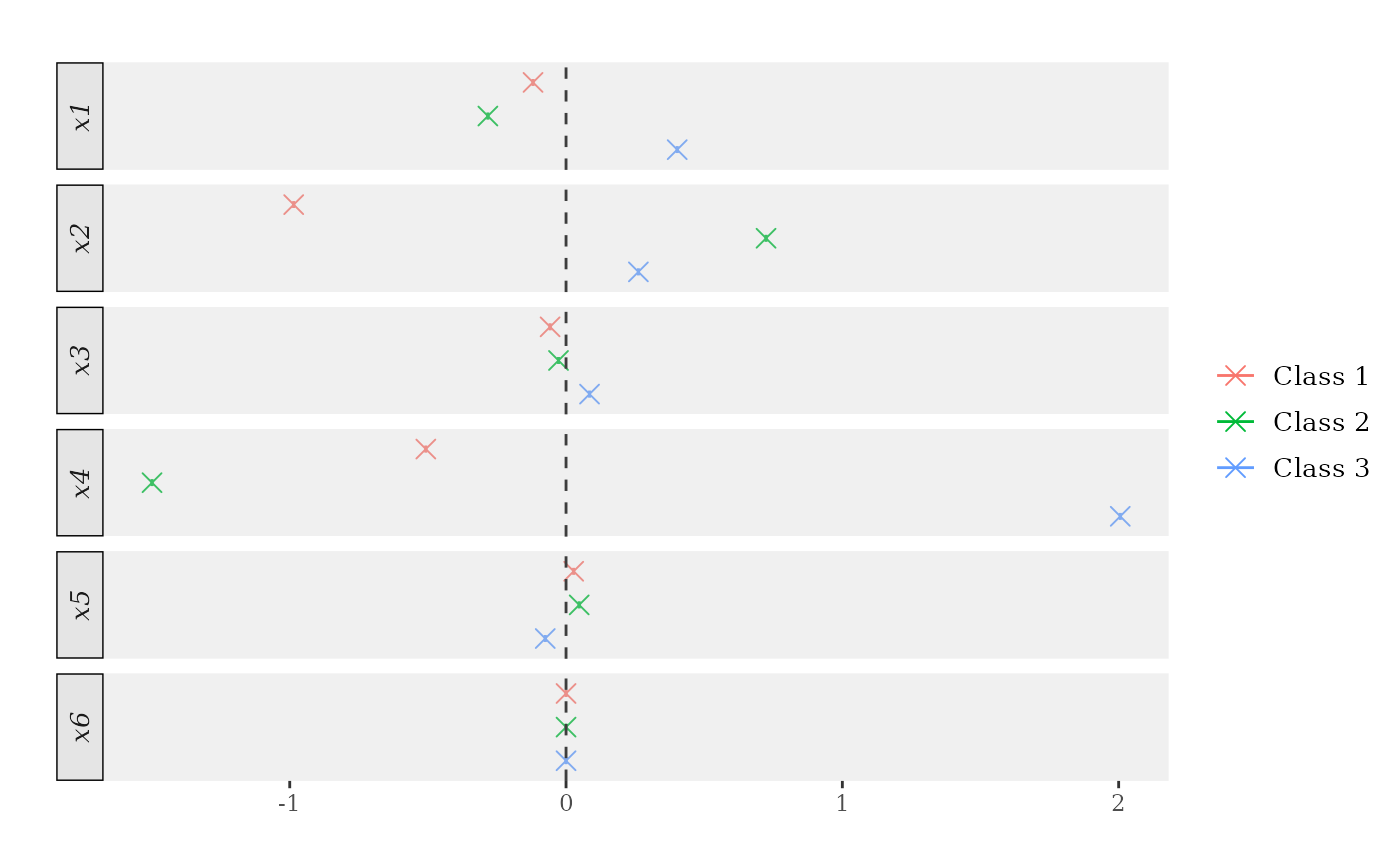
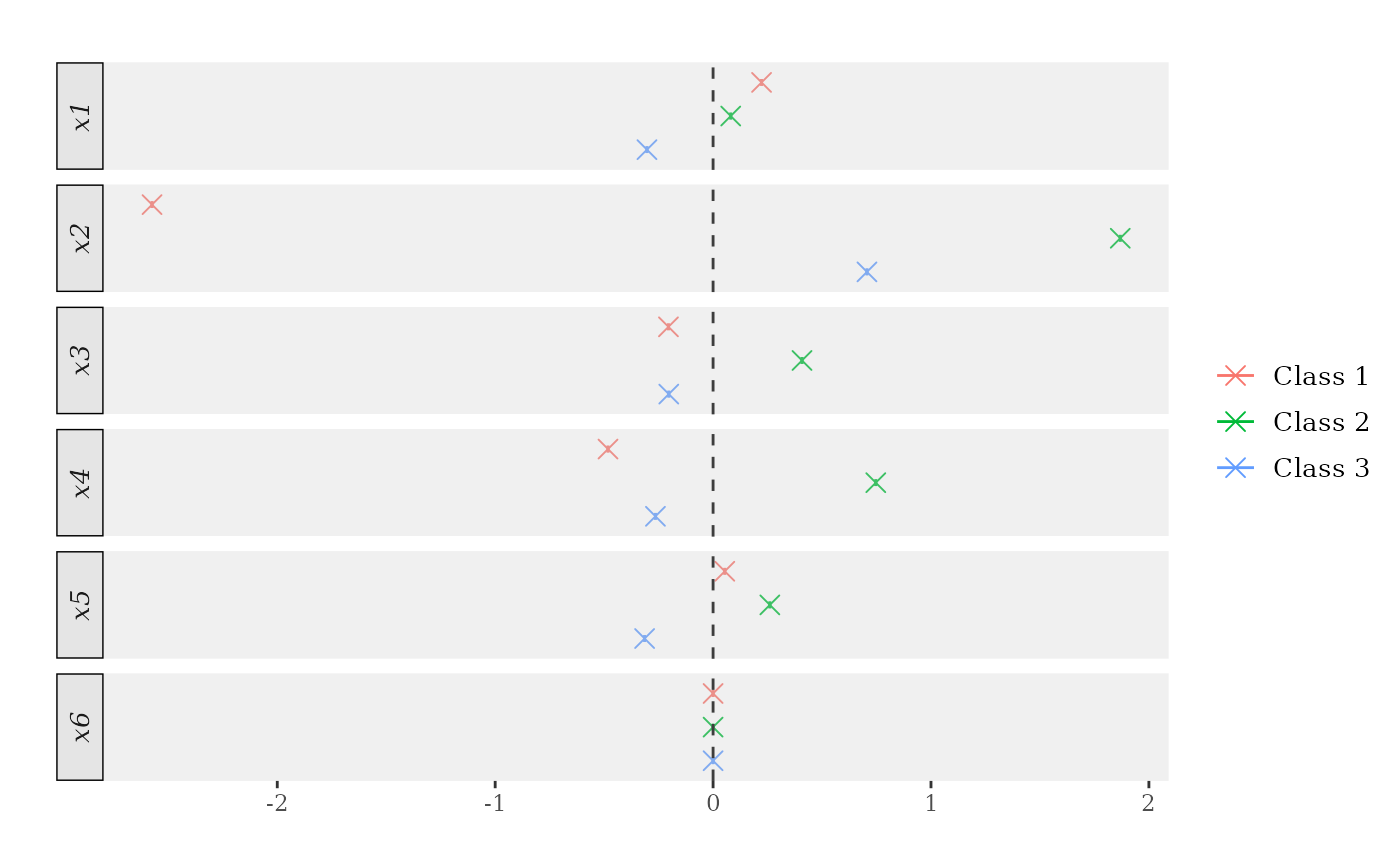
Deploying to gh-pages from @ riccardo-df/ocf@5de2d60cd0b7a9df96c2b80afe0f2779811ad42f 🚀

diff --git a/articles/ocf-short-tutorial.html b/articles/ocf-short-tutorial.html
@@ -159,7 +159,7 @@ about the employed DGP can be retrieved by running
 <div class="sourceCode" id="cb1"><pre class="sourceCode r"><code class="sourceCode r"><span id="cb1-1"><a href="#cb1-1" tabindex="-1"></a><span class="do">## Generate synthetic data.</span></span>
 <span id="cb1-2"><a href="#cb1-2" tabindex="-1"></a><span class="fu">set.seed</span>(<span class="dv">1986</span>)</span>
 <span id="cb1-3"><a href="#cb1-3" tabindex="-1"></a></span>
-<span id="cb1-4"><a href="#cb1-4" tabindex="-1"></a>n <span class="ot">&lt;-</span> <span class="dv">100</span></span>
+<span id="cb1-4"><a href="#cb1-4" tabindex="-1"></a>n <span class="ot">&lt;-</span> <span class="dv">2000</span></span>
 <span id="cb1-5"><a href="#cb1-5" tabindex="-1"></a>data <span class="ot">&lt;-</span> <span class="fu">generate_ordered_data</span>(n)</span>
 <span id="cb1-6"><a href="#cb1-6" tabindex="-1"></a></span>
 <span id="cb1-7"><a href="#cb1-7" tabindex="-1"></a>sample <span class="ot">&lt;-</span> data<span class="sc">$</span>sample</span>
@@ -168,17 +168,17 @@ about the employed DGP can be retrieved by running
 <span id="cb1-10"><a href="#cb1-10" tabindex="-1"></a></span>
 <span id="cb1-11"><a href="#cb1-11" tabindex="-1"></a><span class="fu">table</span>(Y)</span>
 <span id="cb1-12"><a href="#cb1-12" tabindex="-1"></a><span class="sc">&gt;</span> Y</span>
-<span id="cb1-13"><a href="#cb1-13" tabindex="-1"></a><span class="sc">&gt;</span>  <span class="dv">1</span>  <span class="dv">2</span>  <span class="dv">3</span> </span>
-<span id="cb1-14"><a href="#cb1-14" tabindex="-1"></a><span class="sc">&gt;</span> <span class="dv">31</span> <span class="dv">37</span> <span class="dv">32</span></span>
+<span id="cb1-13"><a href="#cb1-13" tabindex="-1"></a><span class="sc">&gt;</span>   <span class="dv">1</span>   <span class="dv">2</span>   <span class="dv">3</span> </span>
+<span id="cb1-14"><a href="#cb1-14" tabindex="-1"></a><span class="sc">&gt;</span> <span class="dv">679</span> <span class="dv">655</span> <span class="dv">666</span></span>
 <span id="cb1-15"><a href="#cb1-15" tabindex="-1"></a></span>
 <span id="cb1-16"><a href="#cb1-16" tabindex="-1"></a><span class="fu">head</span>(X)</span>
-<span id="cb1-17"><a href="#cb1-17" tabindex="-1"></a><span class="sc">&gt;</span>            x1 x2         x3 x4            x5 x6</span>
-<span id="cb1-18"><a href="#cb1-18" tabindex="-1"></a><span class="sc">&gt;</span> <span class="dv">1</span> <span class="sc">-</span><span class="fl">0.04625141</span>  <span class="dv">1</span> <span class="sc">-</span><span class="fl">1.7879732</span>  <span class="dv">0</span> <span class="sc">-</span><span class="fl">1.0515868012</span>  <span class="dv">1</span></span>
-<span id="cb1-19"><a href="#cb1-19" tabindex="-1"></a><span class="sc">&gt;</span> <span class="dv">2</span>  <span class="fl">0.28000082</span>  <span class="dv">0</span> <span class="sc">-</span><span class="fl">1.1553030</span>  <span class="dv">0</span> <span class="sc">-</span><span class="fl">0.4285613418</span>  <span class="dv">0</span></span>
-<span id="cb1-20"><a href="#cb1-20" tabindex="-1"></a><span class="sc">&gt;</span> <span class="dv">3</span>  <span class="fl">0.25317063</span>  <span class="dv">1</span>  <span class="fl">1.6677330</span>  <span class="dv">0</span>  <span class="fl">0.1621459072</span>  <span class="dv">0</span></span>
-<span id="cb1-21"><a href="#cb1-21" tabindex="-1"></a><span class="sc">&gt;</span> <span class="dv">4</span> <span class="sc">-</span><span class="fl">0.96411077</span>  <span class="dv">0</span> <span class="sc">-</span><span class="fl">0.1587051</span>  <span class="dv">0</span>  <span class="fl">0.3587438820</span>  <span class="dv">0</span></span>
-<span id="cb1-22"><a href="#cb1-22" tabindex="-1"></a><span class="sc">&gt;</span> <span class="dv">5</span>  <span class="fl">0.49222664</span>  <span class="dv">0</span> <span class="sc">-</span><span class="fl">1.4020533</span>  <span class="dv">1</span>  <span class="fl">0.0004035277</span>  <span class="dv">0</span></span>
-<span id="cb1-23"><a href="#cb1-23" tabindex="-1"></a><span class="sc">&gt;</span> <span class="dv">6</span> <span class="sc">-</span><span class="fl">0.69874551</span>  <span class="dv">1</span> <span class="sc">-</span><span class="fl">0.4450061</span>  <span class="dv">0</span> <span class="sc">-</span><span class="fl">0.3183447897</span>  <span class="dv">0</span></span></code></pre></div>
+<span id="cb1-17"><a href="#cb1-17" tabindex="-1"></a><span class="sc">&gt;</span>            x1 x2          x3 x4         x5 x6</span>
+<span id="cb1-18"><a href="#cb1-18" tabindex="-1"></a><span class="sc">&gt;</span> <span class="dv">1</span> <span class="sc">-</span><span class="fl">0.04625141</span>  <span class="dv">0</span>  <span class="fl">0.95196649</span>  <span class="dv">1</span>  <span class="fl">0.6678908</span>  <span class="dv">0</span></span>
+<span id="cb1-19"><a href="#cb1-19" tabindex="-1"></a><span class="sc">&gt;</span> <span class="dv">2</span>  <span class="fl">0.28000082</span>  <span class="dv">1</span>  <span class="fl">2.04083053</span>  <span class="dv">0</span>  <span class="fl">0.2508728</span>  <span class="dv">0</span></span>
+<span id="cb1-20"><a href="#cb1-20" tabindex="-1"></a><span class="sc">&gt;</span> <span class="dv">3</span>  <span class="fl">0.25317063</span>  <span class="dv">0</span>  <span class="fl">2.06547193</span>  <span class="dv">1</span> <span class="sc">-</span><span class="fl">0.8435355</span>  <span class="dv">1</span></span>
+<span id="cb1-21"><a href="#cb1-21" tabindex="-1"></a><span class="sc">&gt;</span> <span class="dv">4</span> <span class="sc">-</span><span class="fl">0.96411077</span>  <span class="dv">0</span> <span class="sc">-</span><span class="fl">0.02678352</span>  <span class="dv">0</span>  <span class="fl">0.2401109</span>  <span class="dv">1</span></span>
+<span id="cb1-22"><a href="#cb1-22" tabindex="-1"></a><span class="sc">&gt;</span> <span class="dv">5</span>  <span class="fl">0.49222664</span>  <span class="dv">0</span> <span class="sc">-</span><span class="fl">1.31251674</span>  <span class="dv">0</span>  <span class="fl">0.5411830</span>  <span class="dv">1</span></span>
+<span id="cb1-23"><a href="#cb1-23" tabindex="-1"></a><span class="sc">&gt;</span> <span class="dv">6</span> <span class="sc">-</span><span class="fl">0.69874551</span>  <span class="dv">0</span> <span class="sc">-</span><span class="fl">0.06783879</span>  <span class="dv">0</span> <span class="sc">-</span><span class="fl">0.8246243</span>  <span class="dv">1</span></span></code></pre></div>
 <div class="section level3">
 <h3 id="conditional-probabilities">Conditional probabilities<a class="anchor" aria-label="anchor" href="#conditional-probabilities"></a>
 </h3>
@@ -207,13 +207,13 @@ the highest-probability class).</p>
 <span id="cb2-16"><a href="#cb2-16" tabindex="-1"></a><span class="er">&gt;</span> <span class="fu">ocf</span>(Y_tr, X_tr) </span>
 <span id="cb2-17"><a href="#cb2-17" tabindex="-1"></a><span class="sc">&gt;</span> </span>
 <span id="cb2-18"><a href="#cb2-18" tabindex="-1"></a><span class="er">&gt;</span> Data info<span class="sc">:</span> </span>
-<span id="cb2-19"><a href="#cb2-19" tabindex="-1"></a><span class="er">&gt;</span> Full sample size<span class="sc">:</span>   <span class="dv">50</span> </span>
+<span id="cb2-19"><a href="#cb2-19" tabindex="-1"></a><span class="er">&gt;</span> Full sample size<span class="sc">:</span>   <span class="dv">1000</span> </span>
 <span id="cb2-20"><a href="#cb2-20" tabindex="-1"></a><span class="sc">&gt;</span> N. covariates<span class="sc">:</span>      <span class="dv">6</span> </span>
 <span id="cb2-21"><a href="#cb2-21" tabindex="-1"></a><span class="sc">&gt;</span> Classes<span class="sc">:</span>            <span class="dv">1</span> <span class="dv">2</span> <span class="dv">3</span> </span>
 <span id="cb2-22"><a href="#cb2-22" tabindex="-1"></a><span class="sc">&gt;</span> </span>
 <span id="cb2-23"><a href="#cb2-23" tabindex="-1"></a><span class="er">&gt;</span> Relative variable importance<span class="sc">:</span> </span>
 <span id="cb2-24"><a href="#cb2-24" tabindex="-1"></a><span class="er">&gt;</span>    x1    x2    x3    x4    x5    x6 </span>
-<span id="cb2-25"><a href="#cb2-25" tabindex="-1"></a><span class="sc">&gt;</span> <span class="fl">0.369</span> <span class="fl">0.075</span> <span class="fl">0.253</span> <span class="fl">0.101</span> <span class="fl">0.172</span> <span class="fl">0.030</span> </span>
+<span id="cb2-25"><a href="#cb2-25" tabindex="-1"></a><span class="sc">&gt;</span> <span class="fl">0.324</span> <span class="fl">0.109</span> <span class="fl">0.281</span> <span class="fl">0.056</span> <span class="fl">0.194</span> <span class="fl">0.036</span> </span>
 <span id="cb2-26"><a href="#cb2-26" tabindex="-1"></a><span class="sc">&gt;</span> </span>
 <span id="cb2-27"><a href="#cb2-27" tabindex="-1"></a><span class="er">&gt;</span> Tuning parameters<span class="sc">:</span> </span>
 <span id="cb2-28"><a href="#cb2-28" tabindex="-1"></a><span class="er">&gt;</span> N. trees<span class="sc">:</span>           <span class="dv">2000</span> </span>
@@ -228,19 +228,19 @@ the highest-probability class).</p>
 <span id="cb2-37"><a href="#cb2-37" tabindex="-1"></a></span>
 <span id="cb2-38"><a href="#cb2-38" tabindex="-1"></a><span class="fu">head</span>(predictions<span class="sc">$</span>probabilities)</span>
 <span id="cb2-39"><a href="#cb2-39" tabindex="-1"></a><span class="sc">&gt;</span>         <span class="fu">P</span>(<span class="at">Y=</span><span class="dv">1</span>)    <span class="fu">P</span>(<span class="at">Y=</span><span class="dv">2</span>)     <span class="fu">P</span>(<span class="at">Y=</span><span class="dv">3</span>)</span>
-<span id="cb2-40"><a href="#cb2-40" tabindex="-1"></a><span class="sc">&gt;</span> [<span class="dv">1</span>,] <span class="fl">0.3543743</span> <span class="fl">0.5375517</span> <span class="fl">0.10807401</span></span>
-<span id="cb2-41"><a href="#cb2-41" tabindex="-1"></a><span class="sc">&gt;</span> [<span class="dv">2</span>,] <span class="fl">0.4571570</span> <span class="fl">0.4057421</span> <span class="fl">0.13710091</span></span>
-<span id="cb2-42"><a href="#cb2-42" tabindex="-1"></a><span class="sc">&gt;</span> [<span class="dv">3</span>,] <span class="fl">0.1173914</span> <span class="fl">0.4803692</span> <span class="fl">0.40223943</span></span>
-<span id="cb2-43"><a href="#cb2-43" tabindex="-1"></a><span class="sc">&gt;</span> [<span class="dv">4</span>,] <span class="fl">0.6342519</span> <span class="fl">0.3132168</span> <span class="fl">0.05253126</span></span>
-<span id="cb2-44"><a href="#cb2-44" tabindex="-1"></a><span class="sc">&gt;</span> [<span class="dv">5</span>,] <span class="fl">0.3482501</span> <span class="fl">0.3873043</span> <span class="fl">0.26444560</span></span>
-<span id="cb2-45"><a href="#cb2-45" tabindex="-1"></a><span class="sc">&gt;</span> [<span class="dv">6</span>,] <span class="fl">0.6284292</span> <span class="fl">0.2999011</span> <span class="fl">0.07166965</span></span>
+<span id="cb2-40"><a href="#cb2-40" tabindex="-1"></a><span class="sc">&gt;</span> [<span class="dv">1</span>,] <span class="fl">0.1580823</span> <span class="fl">0.4010153</span> <span class="fl">0.44090239</span></span>
+<span id="cb2-41"><a href="#cb2-41" tabindex="-1"></a><span class="sc">&gt;</span> [<span class="dv">2</span>,] <span class="fl">0.5871019</span> <span class="fl">0.2276974</span> <span class="fl">0.18520066</span></span>
+<span id="cb2-42"><a href="#cb2-42" tabindex="-1"></a><span class="sc">&gt;</span> [<span class="dv">3</span>,] <span class="fl">0.5416146</span> <span class="fl">0.3308320</span> <span class="fl">0.12755331</span></span>
+<span id="cb2-43"><a href="#cb2-43" tabindex="-1"></a><span class="sc">&gt;</span> [<span class="dv">4</span>,] <span class="fl">0.3369383</span> <span class="fl">0.5792799</span> <span class="fl">0.08378179</span></span>
+<span id="cb2-44"><a href="#cb2-44" tabindex="-1"></a><span class="sc">&gt;</span> [<span class="dv">5</span>,] <span class="fl">0.1066391</span> <span class="fl">0.3533131</span> <span class="fl">0.54004772</span></span>
+<span id="cb2-45"><a href="#cb2-45" tabindex="-1"></a><span class="sc">&gt;</span> [<span class="dv">6</span>,] <span class="fl">0.4305637</span> <span class="fl">0.5112663</span> <span class="fl">0.05817006</span></span>
 <span id="cb2-46"><a href="#cb2-46" tabindex="-1"></a></span>
 <span id="cb2-47"><a href="#cb2-47" tabindex="-1"></a><span class="fu">table</span>(Y_test, predictions<span class="sc">$</span>classification)</span>
 <span id="cb2-48"><a href="#cb2-48" tabindex="-1"></a><span class="sc">&gt;</span>       </span>
-<span id="cb2-49"><a href="#cb2-49" tabindex="-1"></a><span class="er">&gt;</span> Y_test  <span class="dv">1</span>  <span class="dv">2</span>  <span class="dv">3</span></span>
-<span id="cb2-50"><a href="#cb2-50" tabindex="-1"></a><span class="sc">&gt;</span>      <span class="dv">1</span> <span class="dv">12</span>  <span class="dv">3</span>  <span class="dv">1</span></span>
-<span id="cb2-51"><a href="#cb2-51" tabindex="-1"></a><span class="sc">&gt;</span>      <span class="dv">2</span>  <span class="dv">6</span>  <span class="dv">6</span>  <span class="dv">7</span></span>
-<span id="cb2-52"><a href="#cb2-52" tabindex="-1"></a><span class="sc">&gt;</span>      <span class="dv">3</span>  <span class="dv">3</span>  <span class="dv">2</span> <span class="dv">10</span></span></code></pre></div>
+<span id="cb2-49"><a href="#cb2-49" tabindex="-1"></a><span class="er">&gt;</span> Y_test   <span class="dv">1</span>   <span class="dv">2</span>   <span class="dv">3</span></span>
+<span id="cb2-50"><a href="#cb2-50" tabindex="-1"></a><span class="sc">&gt;</span>      <span class="dv">1</span> <span class="dv">195</span> <span class="dv">118</span>  <span class="dv">57</span></span>
+<span id="cb2-51"><a href="#cb2-51" tabindex="-1"></a><span class="sc">&gt;</span>      <span class="dv">2</span>  <span class="dv">98</span> <span class="dv">118</span> <span class="dv">102</span></span>
+<span id="cb2-52"><a href="#cb2-52" tabindex="-1"></a><span class="sc">&gt;</span>      <span class="dv">3</span>  <span class="dv">39</span>  <span class="dv">80</span> <span class="dv">193</span></span></code></pre></div>
 <p>To produce consistent and asymptotically normal predictions, we need
 to set the <code>honesty</code> argument to TRUE. This makes the
 <code>ocf</code> function using different parts of the training sample
@@ -251,12 +251,12 @@ to construct the forests and compute the predictions.</p>
 <span id="cb3-4"><a href="#cb3-4" tabindex="-1"></a>honest_predictions <span class="ot">&lt;-</span> <span class="fu">predict</span>(honest_forests, X_test)</span>
 <span id="cb3-5"><a href="#cb3-5" tabindex="-1"></a><span class="fu">head</span>(honest_predictions<span class="sc">$</span>probabilities)</span>
 <span id="cb3-6"><a href="#cb3-6" tabindex="-1"></a><span class="sc">&gt;</span>         <span class="fu">P</span>(<span class="at">Y=</span><span class="dv">1</span>)    <span class="fu">P</span>(<span class="at">Y=</span><span class="dv">2</span>)    <span class="fu">P</span>(<span class="at">Y=</span><span class="dv">3</span>)</span>
-<span id="cb3-7"><a href="#cb3-7" tabindex="-1"></a><span class="sc">&gt;</span> [<span class="dv">1</span>,] <span class="fl">0.3476025</span> <span class="fl">0.3216374</span> <span class="fl">0.3307601</span></span>
-<span id="cb3-8"><a href="#cb3-8" tabindex="-1"></a><span class="sc">&gt;</span> [<span class="dv">2</span>,] <span class="fl">0.3865934</span> <span class="fl">0.3244973</span> <span class="fl">0.2889093</span></span>
-<span id="cb3-9"><a href="#cb3-9" tabindex="-1"></a><span class="sc">&gt;</span> [<span class="dv">3</span>,] <span class="fl">0.2351550</span> <span class="fl">0.4112832</span> <span class="fl">0.3535617</span></span>
-<span id="cb3-10"><a href="#cb3-10" tabindex="-1"></a><span class="sc">&gt;</span> [<span class="dv">4</span>,] <span class="fl">0.4237396</span> <span class="fl">0.3527212</span> <span class="fl">0.2235392</span></span>
-<span id="cb3-11"><a href="#cb3-11" tabindex="-1"></a><span class="sc">&gt;</span> [<span class="dv">5</span>,] <span class="fl">0.3394056</span> <span class="fl">0.3034435</span> <span class="fl">0.3571509</span></span>
-<span id="cb3-12"><a href="#cb3-12" tabindex="-1"></a><span class="sc">&gt;</span> [<span class="dv">6</span>,] <span class="fl">0.4069484</span> <span class="fl">0.3231956</span> <span class="fl">0.2698560</span></span></code></pre></div>
+<span id="cb3-7"><a href="#cb3-7" tabindex="-1"></a><span class="sc">&gt;</span> [<span class="dv">1</span>,] <span class="fl">0.1115188</span> <span class="fl">0.2933057</span> <span class="fl">0.5951755</span></span>
+<span id="cb3-8"><a href="#cb3-8" tabindex="-1"></a><span class="sc">&gt;</span> [<span class="dv">2</span>,] <span class="fl">0.5538789</span> <span class="fl">0.2478605</span> <span class="fl">0.1982606</span></span>
+<span id="cb3-9"><a href="#cb3-9" tabindex="-1"></a><span class="sc">&gt;</span> [<span class="dv">3</span>,] <span class="fl">0.3834688</span> <span class="fl">0.4418804</span> <span class="fl">0.1746508</span></span>
+<span id="cb3-10"><a href="#cb3-10" tabindex="-1"></a><span class="sc">&gt;</span> [<span class="dv">4</span>,] <span class="fl">0.5219917</span> <span class="fl">0.3478453</span> <span class="fl">0.1301631</span></span>
+<span id="cb3-11"><a href="#cb3-11" tabindex="-1"></a><span class="sc">&gt;</span> [<span class="dv">5</span>,] <span class="fl">0.1647595</span> <span class="fl">0.3233609</span> <span class="fl">0.5118797</span></span>
+<span id="cb3-12"><a href="#cb3-12" tabindex="-1"></a><span class="sc">&gt;</span> [<span class="dv">6</span>,] <span class="fl">0.3312435</span> <span class="fl">0.4883800</span> <span class="fl">0.1803764</span></span></code></pre></div>
 <p>To estimate standard errors for the predicted probabilities, we need
 to set the <code>inference</code> argument to TRUE. However, this works
 only if <code>honesty</code> is TRUE, as the formula for the variance is
@@ -284,7 +284,7 @@ median, according to the <code>eval</code> argument.</p>
 <span id="cb5-5"><a href="#cb5-5" tabindex="-1"></a><span class="sc">&gt;</span> </span>
 <span id="cb5-6"><a href="#cb5-6" tabindex="-1"></a><span class="er">&gt;</span> Data info<span class="sc">:</span> </span>
 <span id="cb5-7"><a href="#cb5-7" tabindex="-1"></a><span class="er">&gt;</span> Number of classes<span class="sc">:</span>    <span class="dv">3</span> </span>
-<span id="cb5-8"><a href="#cb5-8" tabindex="-1"></a><span class="sc">&gt;</span> Sample size<span class="sc">:</span>          <span class="dv">50</span> </span>
+<span id="cb5-8"><a href="#cb5-8" tabindex="-1"></a><span class="sc">&gt;</span> Sample size<span class="sc">:</span>          <span class="dv">1000</span> </span>
 <span id="cb5-9"><a href="#cb5-9" tabindex="-1"></a><span class="sc">&gt;</span> </span>
 <span id="cb5-10"><a href="#cb5-10" tabindex="-1"></a><span class="er">&gt;</span> Tuning parameters<span class="sc">:</span> </span>
 <span id="cb5-11"><a href="#cb5-11" tabindex="-1"></a><span class="er">&gt;</span> Evaluation<span class="sc">:</span>           atmean </span>
@@ -295,11 +295,11 @@ median, according to the <code>eval</code> argument.</p>
 <span id="cb5-16"><a href="#cb5-16" tabindex="-1"></a><span class="sc">&gt;</span> </span>
 <span id="cb5-17"><a href="#cb5-17" tabindex="-1"></a><span class="er">&gt;</span> Marginal Effects<span class="sc">:</span> </span>
 <span id="cb5-18"><a href="#cb5-18" tabindex="-1"></a><span class="er">&gt;</span>    P<span class="st">'(Y=1) P'</span>(<span class="at">Y=</span><span class="dv">2</span>) P<span class="st">'(Y=3)</span></span>
-<span id="cb5-19"><a href="#cb5-19" tabindex="-1"></a><span class="st">&gt; x1  -0.119  -0.283   0.402</span></span>
-<span id="cb5-20"><a href="#cb5-20" tabindex="-1"></a><span class="st">&gt; x2  -0.986   0.724   0.262</span></span>
-<span id="cb5-21"><a href="#cb5-21" tabindex="-1"></a><span class="st">&gt; x3  -0.058  -0.027   0.085</span></span>
-<span id="cb5-22"><a href="#cb5-22" tabindex="-1"></a><span class="st">&gt; x4  -0.507  -1.498   2.006</span></span>
-<span id="cb5-23"><a href="#cb5-23" tabindex="-1"></a><span class="st">&gt; x5   0.028   0.048  -0.075</span></span>
+<span id="cb5-19"><a href="#cb5-19" tabindex="-1"></a><span class="st">&gt; x1   0.222   0.081  -0.303</span></span>
+<span id="cb5-20"><a href="#cb5-20" tabindex="-1"></a><span class="st">&gt; x2  -2.575   1.869   0.706</span></span>
+<span id="cb5-21"><a href="#cb5-21" tabindex="-1"></a><span class="st">&gt; x3  -0.205   0.408  -0.203</span></span>
+<span id="cb5-22"><a href="#cb5-22" tabindex="-1"></a><span class="st">&gt; x4  -0.482   0.747  -0.264</span></span>
+<span id="cb5-23"><a href="#cb5-23" tabindex="-1"></a><span class="st">&gt; x5   0.054   0.261  -0.314</span></span>
 <span id="cb5-24"><a href="#cb5-24" tabindex="-1"></a><span class="st">&gt; x6   0.000   0.000   0.000</span></span>
 <span id="cb5-25"><a href="#cb5-25" tabindex="-1"></a></span>
 <span id="cb5-26"><a href="#cb5-26" tabindex="-1"></a><span class="st">plot(me_atmean)</span></span></code></pre></div>
@@ -332,7 +332,7 @@ forests and can considerably slow down the routine.</p>
 <span id="cb7-5"><a href="#cb7-5" tabindex="-1"></a><span class="sc">&gt;</span> </span>
 <span id="cb7-6"><a href="#cb7-6" tabindex="-1"></a><span class="er">&gt;</span> Data info<span class="sc">:</span> </span>
 <span id="cb7-7"><a href="#cb7-7" tabindex="-1"></a><span class="er">&gt;</span> Number of classes<span class="sc">:</span>    <span class="dv">3</span> </span>
-<span id="cb7-8"><a href="#cb7-8" tabindex="-1"></a><span class="sc">&gt;</span> Sample size<span class="sc">:</span>          <span class="dv">50</span> </span>
+<span id="cb7-8"><a href="#cb7-8" tabindex="-1"></a><span class="sc">&gt;</span> Sample size<span class="sc">:</span>          <span class="dv">1000</span> </span>
 <span id="cb7-9"><a href="#cb7-9" tabindex="-1"></a><span class="sc">&gt;</span> </span>
 <span id="cb7-10"><a href="#cb7-10" tabindex="-1"></a><span class="er">&gt;</span> Tuning parameters<span class="sc">:</span> </span>
 <span id="cb7-11"><a href="#cb7-11" tabindex="-1"></a><span class="er">&gt;</span> Evaluation<span class="sc">:</span>           atmean </span>
@@ -343,11 +343,11 @@ forests and can considerably slow down the routine.</p>
 <span id="cb7-16"><a href="#cb7-16" tabindex="-1"></a><span class="sc">&gt;</span> </span>
 <span id="cb7-17"><a href="#cb7-17" tabindex="-1"></a><span class="er">&gt;</span> Marginal Effects<span class="sc">:</span> </span>
 <span id="cb7-18"><a href="#cb7-18" tabindex="-1"></a><span class="er">&gt;</span>    P<span class="st">'(Y=1) P'</span>(<span class="at">Y=</span><span class="dv">2</span>) P<span class="st">'(Y=3)</span></span>
-<span id="cb7-19"><a href="#cb7-19" tabindex="-1"></a><span class="st">&gt; x1  -0.018  -0.009   0.027</span></span>
-<span id="cb7-20"><a href="#cb7-20" tabindex="-1"></a><span class="st">&gt; x2  -0.368   0.115   0.254</span></span>
-<span id="cb7-21"><a href="#cb7-21" tabindex="-1"></a><span class="st">&gt; x3  -0.015   0.006   0.009</span></span>
-<span id="cb7-22"><a href="#cb7-22" tabindex="-1"></a><span class="st">&gt; x4  -0.132  -0.490   0.622</span></span>
-<span id="cb7-23"><a href="#cb7-23" tabindex="-1"></a><span class="st">&gt; x5  -0.003   0.030  -0.027</span></span>
+<span id="cb7-19"><a href="#cb7-19" tabindex="-1"></a><span class="st">&gt; x1  -0.267   0.163   0.104</span></span>
+<span id="cb7-20"><a href="#cb7-20" tabindex="-1"></a><span class="st">&gt; x2  -1.645   0.034   1.611</span></span>
+<span id="cb7-21"><a href="#cb7-21" tabindex="-1"></a><span class="st">&gt; x3  -0.194   0.091   0.103</span></span>
+<span id="cb7-22"><a href="#cb7-22" tabindex="-1"></a><span class="st">&gt; x4  -0.133   0.075   0.058</span></span>
+<span id="cb7-23"><a href="#cb7-23" tabindex="-1"></a><span class="st">&gt; x5  -0.130   0.206  -0.076</span></span>
 <span id="cb7-24"><a href="#cb7-24" tabindex="-1"></a><span class="st">&gt; x6   0.000   0.000   0.000</span></span>
 <span id="cb7-25"><a href="#cb7-25" tabindex="-1"></a></span>
 <span id="cb7-26"><a href="#cb7-26" tabindex="-1"></a><span class="st">plot(honest_me_atmean)</span></span></code></pre></div>
